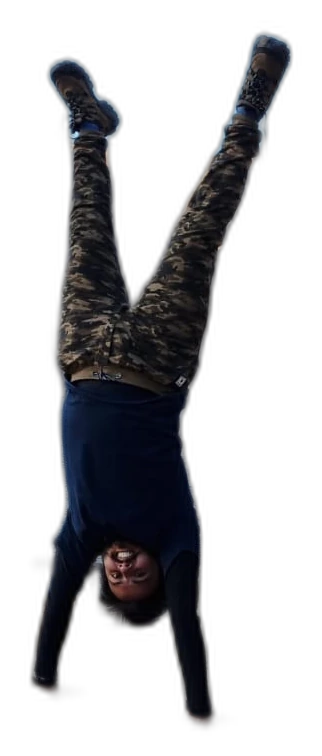
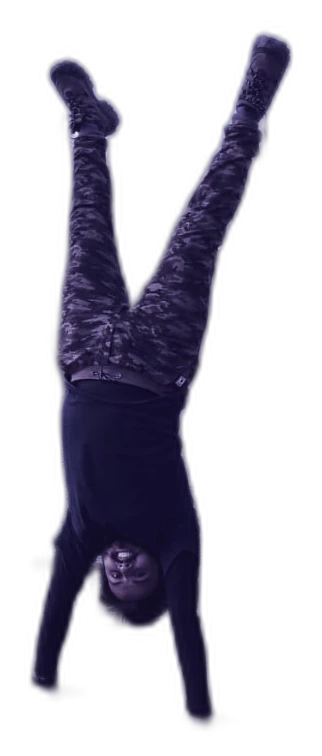
Fix scroll-reveal bug, tone the hero cutout, and add sky atmosphere
ScrollReveal's ScrollTrigger start position was unreachable for sections
sitting close to the page end (PageTeasers, right before the footer) —
switch to IntersectionObserver, which has no such viewport-percentage math
to break. Also grade the hero figure cutout to match the gate photo's
duotone palette instead of pasting raw colors over it, switch the figure
to height-based sizing so it can't overflow the section on mobile, and add
sun glow, drifting clouds, and filled silhouette birds to the hero sky.

Changed region(s): [[0.0932, 0.0304, 0.9006, 0.9735]]

diff --git a/src/components/sections/Hero.tsx b/src/components/sections/Hero.tsx
@@ -7,13 +7,22 @@ import { gsap, prefersReducedMotion } from "@/lib/gsap";
 import { site } from "@/lib/content";
 import { WhatsAppButton } from "@/components/ui/WhatsAppButton";
 
-const BIRD_PATH = "M0,6 Q5,0 10,6 Q15,0 20,6";
+// A solid, filled gull silhouette — reads clearly against the sky rather
+// than the faint open-stroke mark used previously.
+const BIRD_PATH =
+  "M0,8 Q5,-3 10,5 Q15,-3 20,8 Q15,3 10,7.5 Q5,3 0,8 Z";
 
 const birds = [
-  { flightPath: "M -60,180 C 300,60 700,260 1660,120", duration: 22, delay: 0, size: 26 },
-  { flightPath: "M -60,340 C 350,220 650,420 1660,280", duration: 26, delay: 3, size: 20 },
-  { flightPath: "M -60,120 C 250,240 800,40 1660,200", duration: 30, delay: 7, size: 22 },
-  { flightPath: "M -60,420 C 400,300 750,480 1660,360", duration: 24, delay: 11, size: 16 },
+  { flightPath: "M -60,140 C 300,40 700,220 1660,90", duration: 22, delay: 0, size: 30 },
+  { flightPath: "M -60,260 C 350,160 650,320 1660,200", duration: 26, delay: 3, size: 22 },
+  { flightPath: "M -60,90 C 250,190 800,20 1660,150", duration: 30, delay: 7, size: 26 },
+  { flightPath: "M -60,320 C 400,240 750,380 1660,280", duration: 24, delay: 11, size: 18 },
+];
+
+const clouds = [
+  { top: "10%", left: "10%", width: 280, height: 90, duration: 46 },
+  { top: "20%", left: "56%", width: 340, height: 100, duration: 55 },
+  { top: "6%", left: "74%", width: 220, height: 70, duration: 40 },
 ];
 
 export function Hero() {
@@ -118,44 +127,63 @@ export function Hero() {
         className="absolute inset-0 bg-gradient-to-t from-ink via-ink/40 to-ink/20"
       />
 
-      {/* depth-2: birds drifting across the scene on curved flight paths */}
+      {/* depth-1: warm sun glow in the gap between the gate spires */}
+      <div
+        aria-hidden="true"
+        className="absolute left-1/2 top-[14%] h-[36vh] w-[36vh] -translate-x-1/2 -translate-y-1/2 rounded-full bg-accent-gold/40 opacity-70 blur-3xl animate-[breathe_9s_ease-in-out_infinite]"
+      />
+
+      {/* depth-1: soft drifting clouds across the sky */}
+      <div aria-hidden="true" className="absolute inset-0 overflow-hidden">
+        {clouds.map((cloud, i) => (
+          <div
+            key={i}
+            className="absolute rounded-[50%] bg-cream/80 blur-xl"
+            style={{
+              top: cloud.top,
+              left: cloud.left,
+              width: cloud.width,
+              height: cloud.height,
+              boxShadow: "0 0 60px 20px rgba(246,242,234,0.35)",
+              animation: `cloud-drift ${cloud.duration}s ease-in-out infinite alternate`,
+            }}
+          />
+        ))}
+      </div>
+
+      {/* depth-2: silhouette birds drifting across the scene on curved flight paths */}
       <svg
         ref={birdsRef}
         aria-hidden="true"
         viewBox="0 0 1600 600"
         preserveAspectRatio="none"
-        className="pointer-events-none absolute inset-0 h-full w-full text-cream-dim/70"
+        className="pointer-events-none absolute inset-0 h-full w-full text-ink-light"
       >
         {birds.map((bird, i) => (
           <path key={`guide-${i}`} id={`bird-path-${i}`} d={bird.flightPath} opacity={0} fill="none" />
         ))}
         {birds.map((bird, i) => (
           <g key={`bird-${i}`} className="hero-bird">
-            <path
-              d={BIRD_PATH}
-              transform={`scale(${bird.size / 20})`}
-              fill="none"
-              stroke="currentColor"
-              strokeWidth={2}
-              strokeLinecap="round"
-            />
+            <path d={BIRD_PATH} transform={`scale(${bird.size / 20})`} fill="currentColor" />
           </g>
         ))}
       </svg>
 
-      {/* depth-3: the master, mid-handstand, floating in front of the gate */}
+      {/* depth-3: the master, mid-handstand, floating in front of the gate —
+          sized by height (not width) so it can never overflow the section
+          on narrow, tall mobile viewports */}
       <div
         ref={figureRef}
         aria-hidden="true"
-        className="absolute bottom-0 right-[4%] w-[clamp(200px,30vw,420px)] drop-shadow-[0_30px_40px_rgba(0,0,0,0.5)] md:right-[8%] md:w-[clamp(240px,34vw,520px)]"
+        className="absolute bottom-0 right-[4%] h-[clamp(200px,42vh,480px)] drop-shadow-[0_30px_40px_rgba(0,0,0,0.5)] md:right-[8%]"
       >
         <Image
           src="/hero/hero-figure-cutout.webp"
           alt=""
           width={322}
           height={756}
-          sizes="(min-width: 768px) 34vw, 30vw"
-          className="h-auto w-full"
+          sizes="480px"
+          className="h-full w-auto"
         />
       </div>
 

diff --git a/src/components/animation/ScrollReveal.tsx b/src/components/animation/ScrollReveal.tsx
@@ -1,6 +1,6 @@
 "use client";
 
-import { useLayoutEffect, useRef, ReactNode } from "react";
+import { useEffect, useRef, ReactNode } from "react";
 import { gsap, prefersReducedMotion } from "@/lib/gsap";
 
 export function ScrollReveal({
@@ -20,30 +20,46 @@ export function ScrollReveal({
 }) {
   const ref = useRef<HTMLDivElement>(null);
 
-  useLayoutEffect(() => {
+  useEffect(() => {
     if (prefersReducedMotion() || !ref.current) return;
+    const el = ref.current;
 
-    const targets = stagger
-      ? gsap.utils.toArray(":scope > *", ref.current)
-      : ref.current;
+    const targets = stagger ? gsap.utils.toArray(":scope > *", el) : el;
+    gsap.set(targets, { opacity: 0, y });
 
-    const ctx = gsap.context(() => {
-      gsap.from(targets, {
-        opacity: 0,
-        y,
+    const play = () => {
+      gsap.to(targets, {
+        opacity: 1,
+        y: 0,
         duration: 0.8,
         delay,
         stagger,
         ease: "power3.out",
-        scrollTrigger: {
-          trigger: ref.current,
-          start: "top 85%",
-          toggleActions: once ? "play none none none" : "play none none reverse",
-        },
       });
-    }, ref);
+    };
+    const reset = () => {
+      gsap.set(targets, { opacity: 0, y });
+    };
 
-    return () => ctx.revert();
+    // IntersectionObserver instead of ScrollTrigger's viewport-percentage
+    // math — that math becomes unreachable for a section sitting close to
+    // the end of the page (not enough scroll room below it for its top to
+    // ever reach a fixed "85% down the viewport" point), which is exactly
+    // what happened with PageTeasers sitting right before the footer.
+    const observer = new IntersectionObserver(
+      ([entry]) => {
+        if (entry.isIntersecting) {
+          play();
+          if (once) observer.disconnect();
+        } else if (!once) {
+          reset();
+        }
+      },
+      { threshold: 0.15, rootMargin: "0px 0px -10% 0px" },
+    );
+    observer.observe(el);
+
+    return () => observer.disconnect();
   }, [y, delay, stagger, once]);
 
   return (

diff --git a/src/app/globals.css b/src/app/globals.css
@@ -62,6 +62,15 @@ h3,
   }
 }
 
+@keyframes cloud-drift {
+  0% {
+    transform: translateX(0);
+  }
+  100% {
+    transform: translateX(40px);
+  }
+}
+
 @keyframes petal-drift {
   0%,
   100% {

diff --git a/scripts/hero-assets/cutout_figure.py b/scripts/hero-assets/cutout_figure.py
@@ -1,6 +1,9 @@
 """One-time asset prep: cut the yoga master's handstand figure out of the
-Ladakh mountain-lake travel photo using rembg, and save a tight-cropped
-transparent WEBP for use as the Hero section's floating depth-3 subject.
+Ladakh mountain-lake travel photo using rembg, then grade its colors to
+harmonize with the duotone gate background (see duotone_background.py) so it
+reads as part of the same photographic world instead of a raw-color photo
+pasted over a stylized backdrop. Save a tight-cropped transparent WEBP for use
+as the Hero section's floating depth-3 subject.
 
 Run once, manually, from within this folder's venv:
     source .venv/bin/activate
@@ -9,9 +12,10 @@ Run once, manually, from within this folder's venv:
 Never invoked at Next.js build/runtime — output is committed as a static asset.
 """
 
+import io
 from pathlib import Path
 
-from PIL import Image
+from PIL import Image, ImageEnhance, ImageOps
 from rembg import remove
 
 HERE = Path(__file__).parent
@@ -24,13 +28,24 @@ OUT = (HERE / "../../public/hero/hero-figure-cutout.webp").resolve()
 
 PAD = 20
 
+# Brand palette (src/app/globals.css) — brighter highlight than the
+# background's gold so the figure still pops as the foreground subject.
+INK = "#150f2e"
+CREAM = "#f6f2ea"
+MID = "#6a5a9e"
+
+# How much of the original color to blend back in over the duotone grade —
+# keeps a hint of the real photo (skin tone, camo green) instead of a flat
+# graphic silhouette.
+ORIGINAL_COLOR_MIX = 0.22
+
 
 def main() -> None:
     with open(SRC, "rb") as f:
         input_bytes = f.read()
 
     output_bytes = remove(input_bytes)
-    img = Image.open(__import__("io").BytesIO(output_bytes)).convert("RGBA")
+    img = Image.open(io.BytesIO(output_bytes)).convert("RGBA")
 
     bbox = img.getbbox()
     if bbox:
@@ -44,9 +59,20 @@ def main() -> None:
             )
         )
 
+    rgb, alpha = img.convert("RGB"), img.split()[3]
+
+    gray = ImageOps.grayscale(rgb)
+    gray = ImageEnhance.Contrast(gray).enhance(1.1)
+    toned = ImageOps.colorize(gray, black=INK, white=CREAM, mid=MID)
+    graded = Image.blend(toned, rgb, ORIGINAL_COLOR_MIX)
+    graded = ImageEnhance.Contrast(graded).enhance(1.05)
+
+    result = graded.convert("RGBA")
+    result.putalpha(alpha)
+
     OUT.parent.mkdir(parents=True, exist_ok=True)
-    img.save(OUT, "WEBP", quality=90, method=6)
-    print(f"saved {OUT} size={img.size}")
+    result.save(OUT, "WEBP", quality=90, method=6)
+    print(f"saved {OUT} size={result.size}")
 
 
 if __name__ == "__main__":
